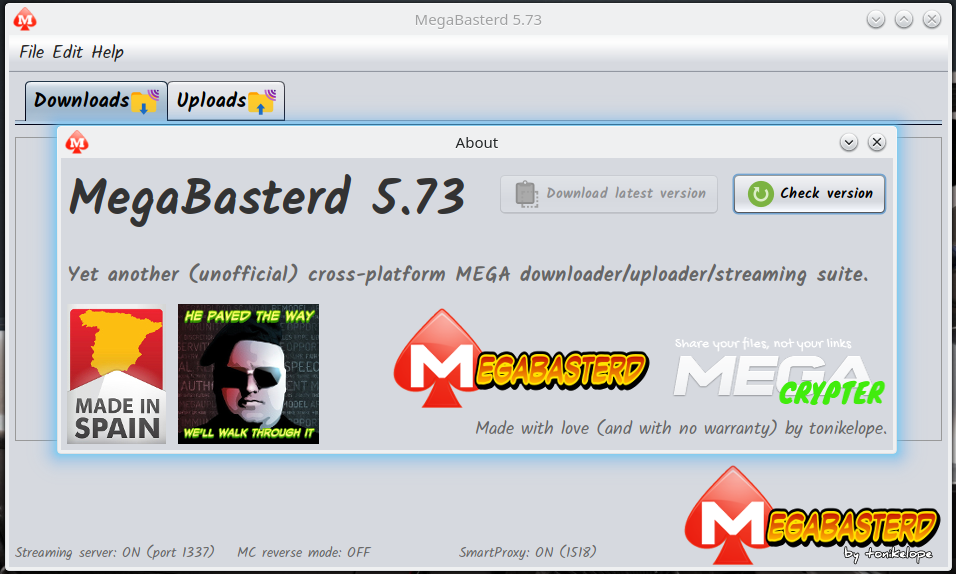
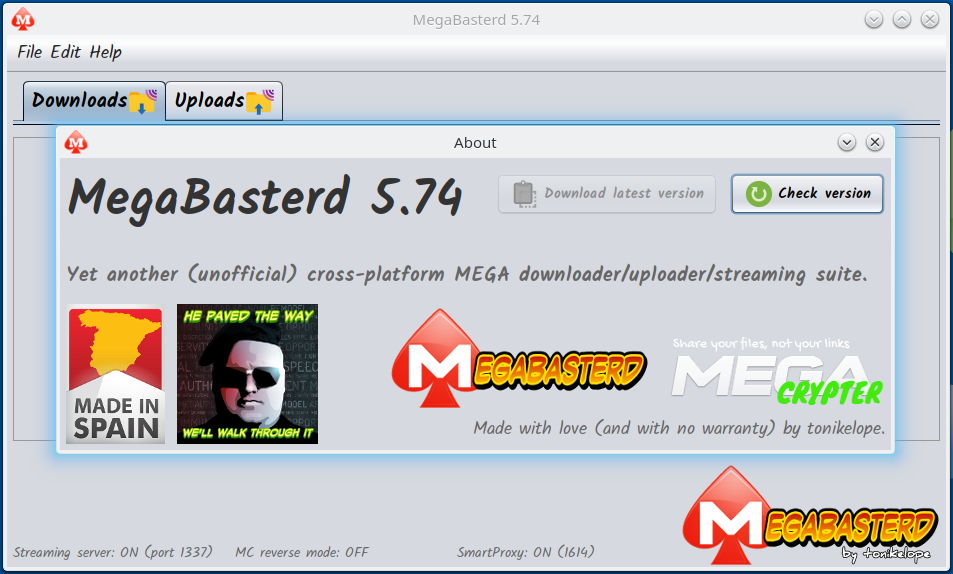
5.74
-Mega api Json quote file name bug fix

diff --git a/src/main/java/com/tonikelope/megabasterd/MegaAPI.java b/src/main/java/com/tonikelope/megabasterd/MegaAPI.java
@@ -1,5 +1,6 @@
 package com.tonikelope.megabasterd;
 
+import com.fasterxml.jackson.core.JsonParser;
 import com.fasterxml.jackson.databind.ObjectMapper;
 import static com.tonikelope.megabasterd.CryptTools.*;
 import static com.tonikelope.megabasterd.MiscTools.*;
@@ -598,6 +599,8 @@ public final class MegaAPI {
             String att = new String(decrypted_at).replaceAll("[\0]+$", "").replaceAll("^MEGA", "");
 
             ObjectMapper objectMapper = new ObjectMapper();
+
+            objectMapper.configure(JsonParser.Feature.ALLOW_SINGLE_QUOTES, true);
 
             res_map = objectMapper.readValue(att, HashMap.class);
 

diff --git a/src/main/java/com/tonikelope/megabasterd/MegaCrypterAPI.java b/src/main/java/com/tonikelope/megabasterd/MegaCrypterAPI.java
@@ -1,5 +1,6 @@
 package com.tonikelope.megabasterd;
 
+import com.fasterxml.jackson.core.JsonParser;
 import com.fasterxml.jackson.databind.ObjectMapper;
 import static com.tonikelope.megabasterd.CryptTools.*;
 import static com.tonikelope.megabasterd.MiscTools.*;
@@ -151,6 +152,8 @@ public final class MegaCrypterAPI {
         String res = MegaCrypterAPI._rawRequest(request, url_api);
 
         ObjectMapper objectMapper = new ObjectMapper();
+
+        objectMapper.configure(JsonParser.Feature.ALLOW_SINGLE_QUOTES, true);
 
         HashMap res_map = objectMapper.readValue(res, HashMap.class);
 

diff --git a/src/main/java/com/tonikelope/megabasterd/MainPanel.java b/src/main/java/com/tonikelope/megabasterd/MainPanel.java
@@ -48,7 +48,7 @@ import javax.swing.UIManager;
  */
 public final class MainPanel {
 
-    public static final String VERSION = "5.73";
+    public static final String VERSION = "5.74";
     public static final int THROTTLE_SLICE_SIZE = 16 * 1024;
     public static final int DEFAULT_BYTE_BUFFER_SIZE = 16 * 1024;
     public static final int STREAMER_PORT = 1337;
